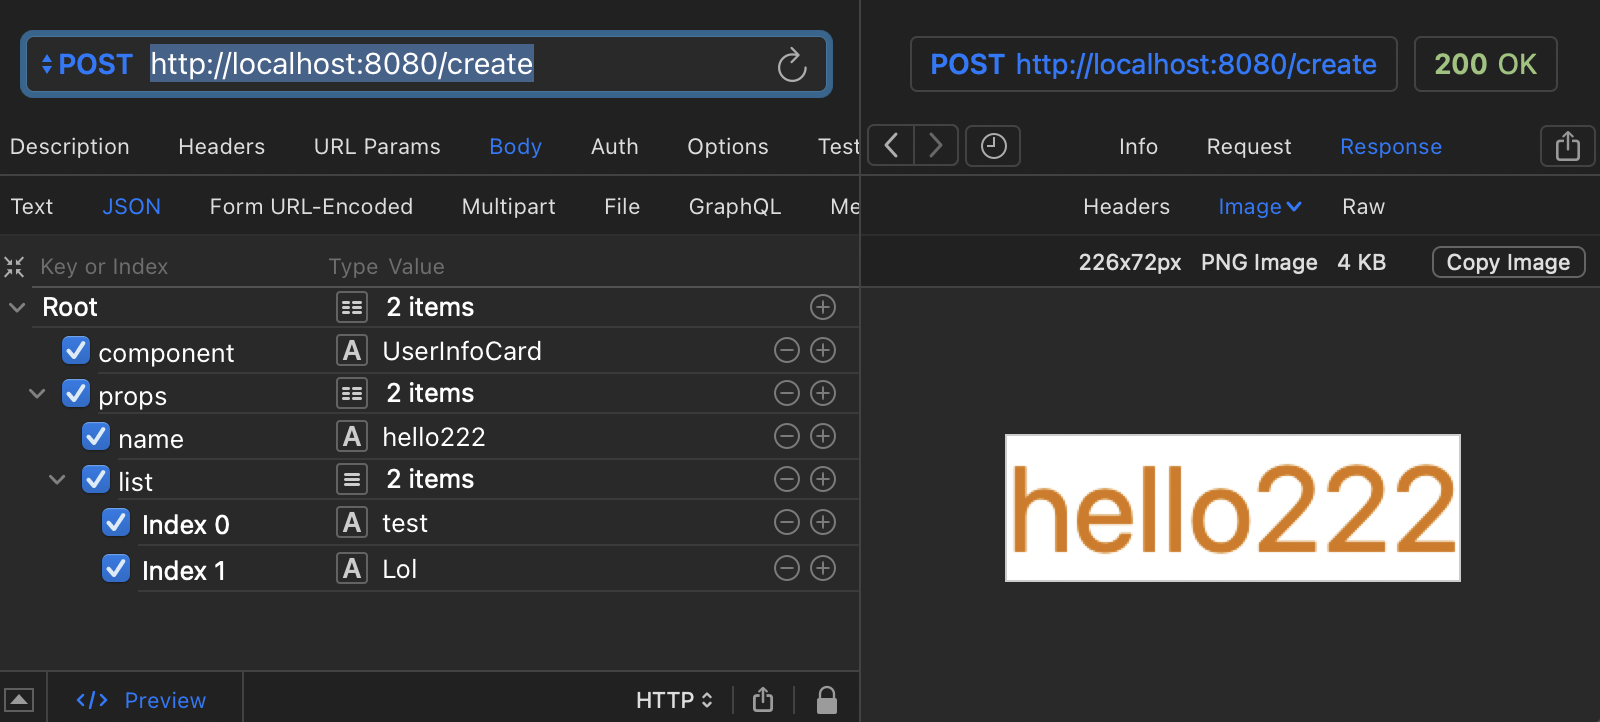
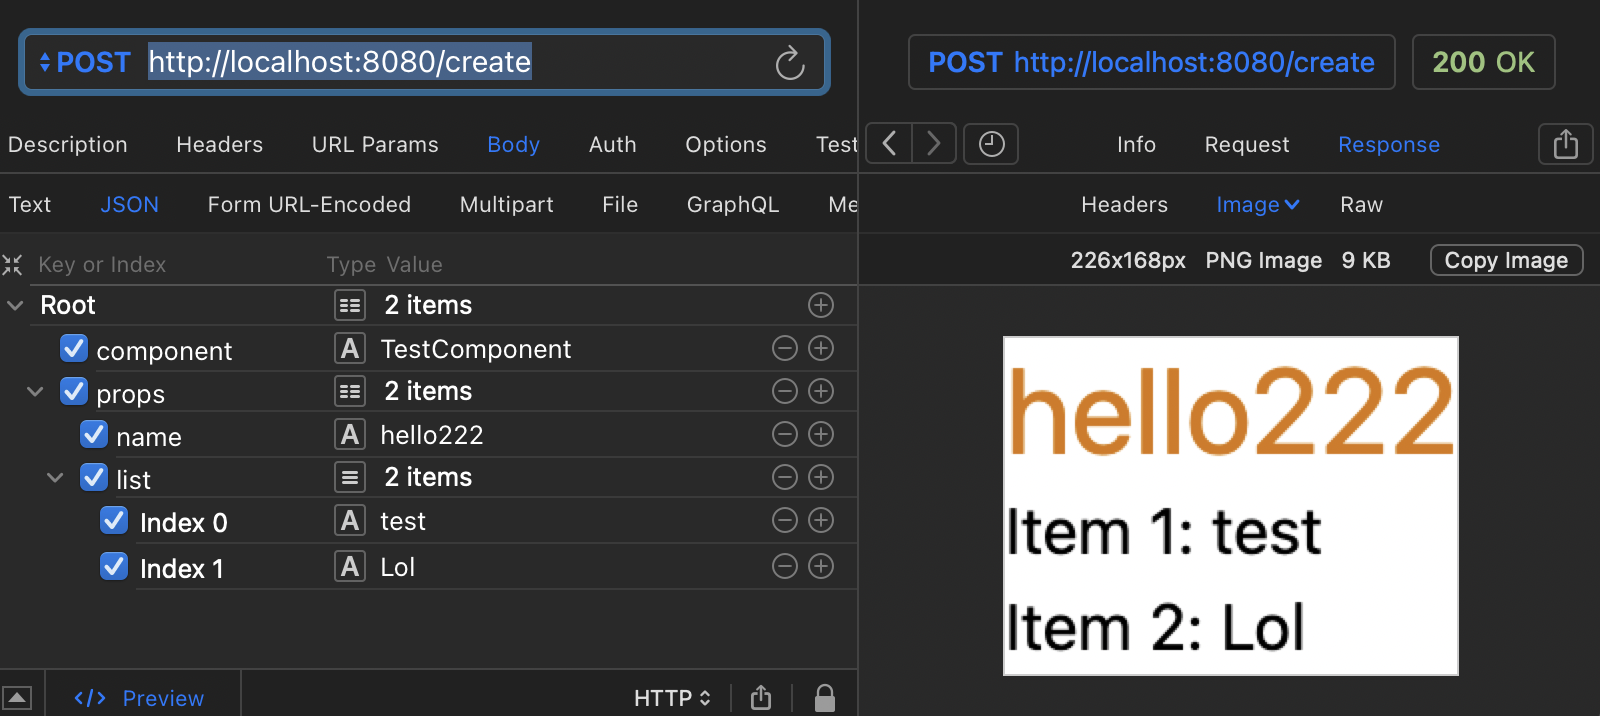
docs: update readme

diff --git a/readme.md b/readme.md
@@ -4,6 +4,32 @@
 
 ![screenshot](./docs/demo.png)
 
+The Component is looks like this:
+
+```tsx
+import React from "react";
+
+interface TestComponentProps {
+	name: string;
+	list: string[];
+}
+
+export function TestComponent(props: TestComponentProps) {
+	return (
+		<div>
+			<h1 className="text-3xl text-amber-6">{props.name}</h1>
+			<ul>
+				{props.list.map((item, index) => (
+					<li key={item}>
+						Item {index + 1}: {item}
+					</li>
+				))}
+			</ul>
+		</div>
+	);
+}
+```
+
 ## Usage
 
 ```bash
@@ -20,9 +46,12 @@ Create a screenshot of a React component.
 
 #### Request
 
-```json
+```jsonc
 {
-  "component": "TestComponent", // The name of the component, in PascalCase
+  // The name of the component, in PascalCase
+  "component": "TestComponent", 
+
+  // The props to pass to the component
   "props": {
     "name": "hello",
     "list": ["test", "lol"]
